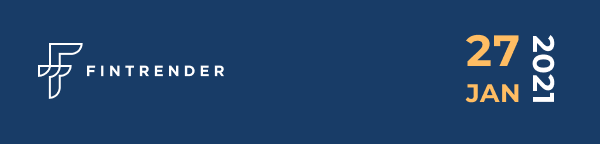
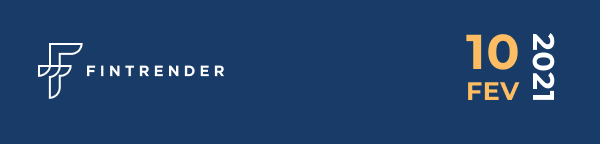
update

Changed region(s): [[0.78, 0.2222, 0.93, 0.7222]]

diff --git a/home.html b/home.html
@@ -92,7 +92,7 @@
 
         <section class="moduleFeature-cards">
             <div class="wrap">
-                <h1>O que você vai ver</h1>
+                <h1>O que você vai ver na aula</h1>
                 <div class="wrap-card">
 
                     <div class="step-box">
@@ -203,7 +203,7 @@
                     <svg width="73" height="75" viewBox="0 0 73 75" fill="none" xmlns="http://www.w3.org/2000/svg">
                         <path d="M66.2093 5.11364H55.1744V1.70455C55.1744 0.767045 54.4105 0 53.4767 0C52.543 0 51.7791 0.767045 51.7791 1.70455V5.11364H21.2209V1.70455C21.2209 0.767045 20.457 0 19.5233 0C18.5895 0 17.8256 0.767045 17.8256 1.70455V5.11364H6.7907C3.05581 5.11364 0 8.18182 0 11.9318V68.1818C0 71.9318 3.05581 75 6.7907 75H66.2093C69.9442 75 73 71.9318 73 68.1818V11.9318C73 8.18182 69.9442 5.11364 66.2093 5.11364ZM6.7907 8.52273H17.8256V11.9318C17.8256 12.8693 18.5895 13.6364 19.5233 13.6364C20.457 13.6364 21.2209 12.8693 21.2209 11.9318V8.52273H51.7791V11.9318C51.7791 12.8693 52.543 13.6364 53.4767 13.6364C54.4105 13.6364 55.1744 12.8693 55.1744 11.9318V8.52273H66.2093C68.0767 8.52273 69.6047 10.0568 69.6047 11.9318V18.75H3.39535V11.9318C3.39535 10.0568 4.92326 8.52273 6.7907 8.52273ZM66.2093 71.5909H6.7907C4.92326 71.5909 3.39535 70.0568 3.39535 68.1818V22.1591H69.6047V68.1818C69.6047 70.0568 68.0767 71.5909 66.2093 71.5909ZM22.0698 51.1364H10.186C9.25233 51.1364 8.48837 51.9034 8.48837 52.8409V64.7727C8.48837 65.7102 9.25233 66.4773 10.186 66.4773H22.0698C23.0035 66.4773 23.7674 65.7102 23.7674 64.7727V52.8409C23.7674 51.9034 23.0035 51.1364 22.0698 51.1364ZM20.3721 63.0682H11.8837V54.5455H20.3721V63.0682ZM42.4419 51.1364H30.5581C29.6244 51.1364 28.8605 51.9034 28.8605 52.8409V64.7727C28.8605 65.7102 29.6244 66.4773 30.5581 66.4773H42.4419C43.3756 66.4773 44.1395 65.7102 44.1395 64.7727V52.8409C44.1395 51.9034 43.3756 51.1364 42.4419 51.1364ZM40.7442 63.0682H32.2558V54.5455H40.7442V63.0682ZM62.814 51.1364H50.9302C49.9965 51.1364 49.2326 51.9034 49.2326 52.8409V64.7727C49.2326 65.7102 49.9965 66.4773 50.9302 66.4773H62.814C63.7477 66.4773 64.5116 65.7102 64.5116 64.7727V52.8409C64.5116 51.9034 63.7477 51.1364 62.814 51.1364ZM61.1163 63.0682H52.6279V54.5455H61.1163V63.0682ZM22.0698 30.6818H10.186C9.25233 30.6818 8.48837 31.4489 8.48837 32.3864V44.3182C8.48837 45.2557 9.25233 46.0227 10.186 46.0227H22.0698C23.0035 46.0227 23.7674 45.2557 23.7674 44.3182V32.3864C23.7674 31.4489 23.0035 30.6818 22.0698 30.6818ZM20.3721 42.6136H11.8837V34.0909H20.3721V42.6136ZM42.4419 30.6818H30.5581C29.6244 30.6818 28.8605 31.4489 28.8605 32.3864V44.3182C28.8605 45.2557 29.6244 46.0227 30.5581 46.0227H42.4419C43.3756 46.0227 44.1395 45.2557 44.1395 44.3182V32.3864C44.1395 31.4489 43.3756 30.6818 42.4419 30.6818ZM40.7442 42.6136H32.2558V34.0909H40.7442V42.6136ZM62.814 30.6818H50.9302C49.9965 30.6818 49.2326 31.4489 49.2326 32.3864V44.3182C49.2326 45.2557 49.9965 46.0227 50.9302 46.0227H62.814C63.7477 46.0227 64.5116 45.2557 64.5116 44.3182V32.3864C64.5116 31.4489 63.7477 30.6818 62.814 30.6818ZM61.1163 42.6136H52.6279V34.0909H61.1163V42.6136Z" fill="#61BBD1"/>
                     </svg>
-                    <p>27 de Janeiro<br> (quinta-feira) às 20h<br> (aula gratuita)</p>
+                    <p>10 de Fevereiro<br> (quinta-feira) às 20h<br> (aula gratuita)</p>
                 </div>
                 <div class="col33">
                     <svg width="84" height="72" viewBox="0 0 84 72" fill="none" xmlns="http://www.w3.org/2000/svg">

diff --git a/mail.html b/mail.html
@@ -94,7 +94,7 @@
                                             <td>
                                                 <img alt="Header Title" style="
                                                     width: 100%;
-                                                    max-width: 600px;" src="http://cdn.mcauto-images-production.sendgrid.net/b317f3cce9d65cbe/e036de9f-313d-4e0a-a8cb-aad35352c858/600x144.png">
+                                                    max-width: 600px;" src="http://cdn.mcauto-images-production.sendgrid.net/b317f3cce9d65cbe/e663b647-b000-4e55-aa07-cad274a69bf3/600x144.png">
                                             </td>
                                         </tr>
                                     </table>
@@ -163,7 +163,7 @@
                                                     <br>
                                                     <b>Aula Online:</b> "Por que você deve investir 1% do seu patrimônio em ativos de altíssimo risco?"<br>
                                                     <br>
-                                                    <b>Data:</b> 27 de JANEIRO (quinta-feira)<br>
+                                                    <b>Data:</b> 10 de Fevereiro (quinta-feira)<br>
                                                     <br>
                                                     <b>Horário:</b> 20h (horário de Brasília)<br>
                                                     <br>
